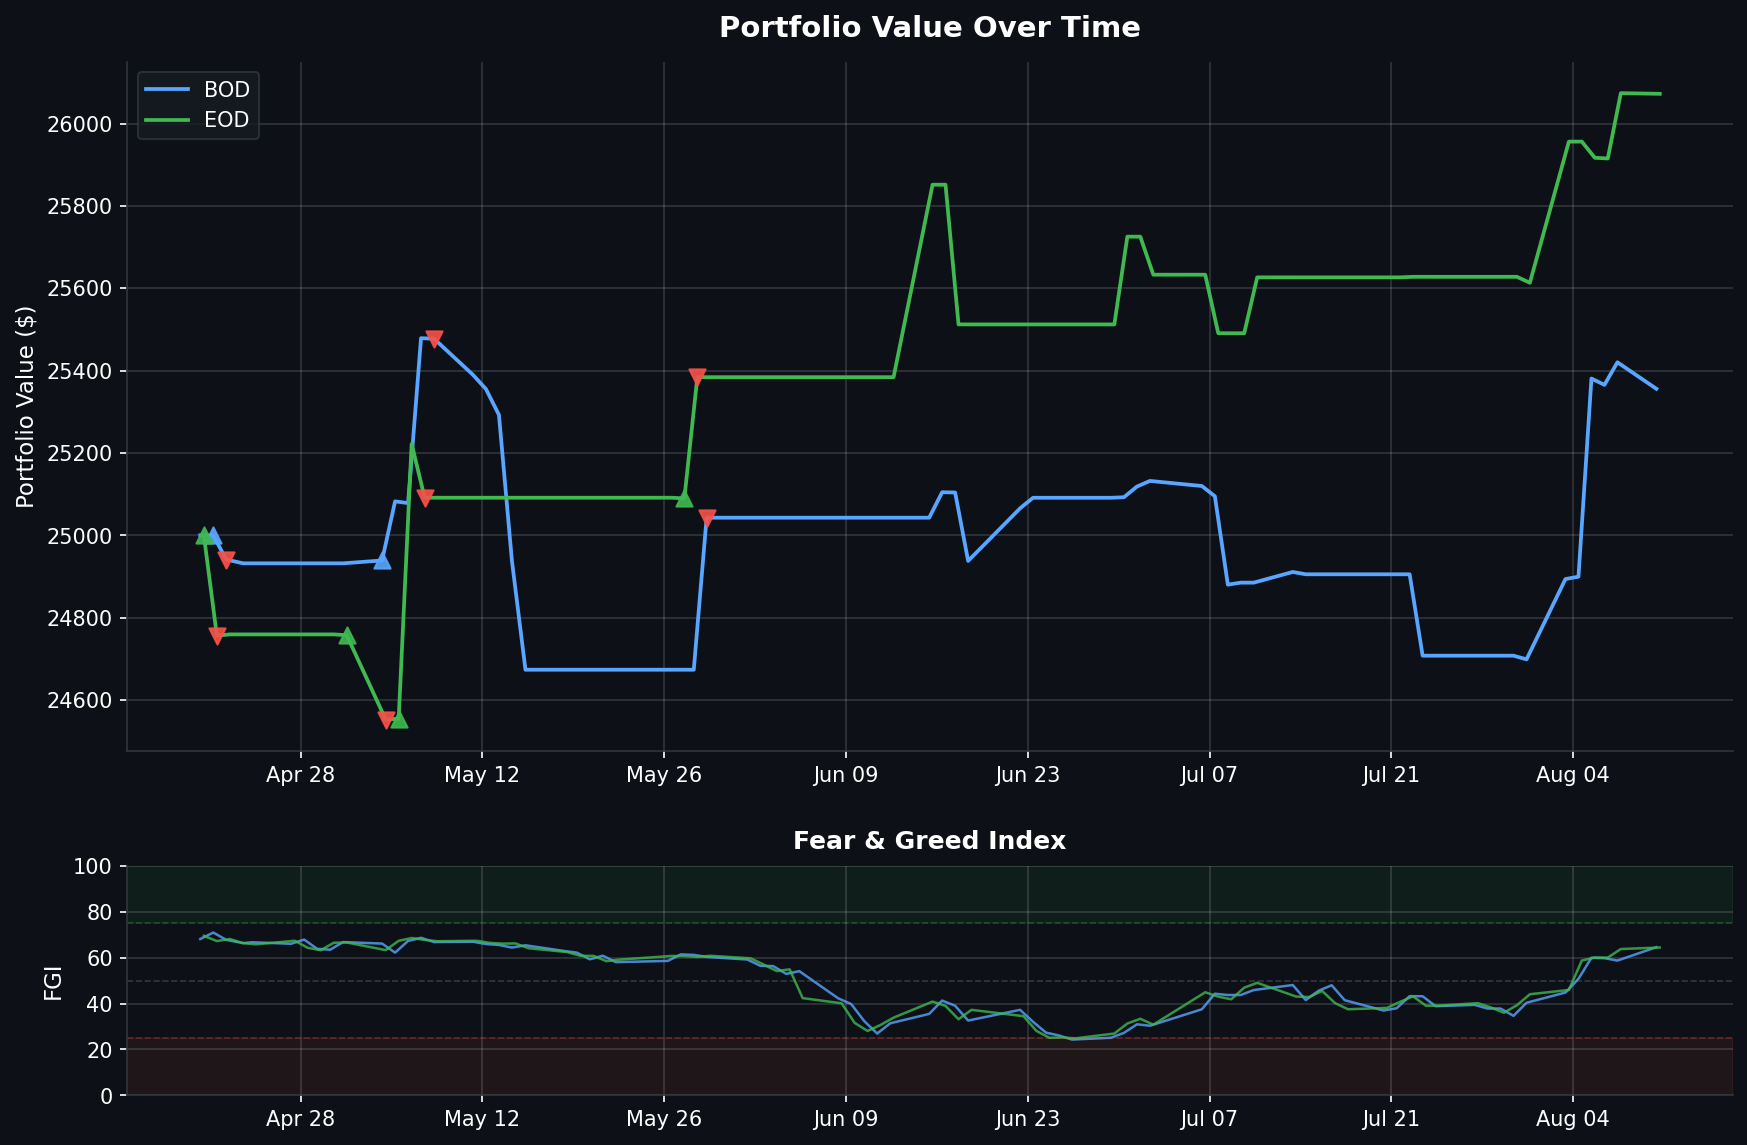
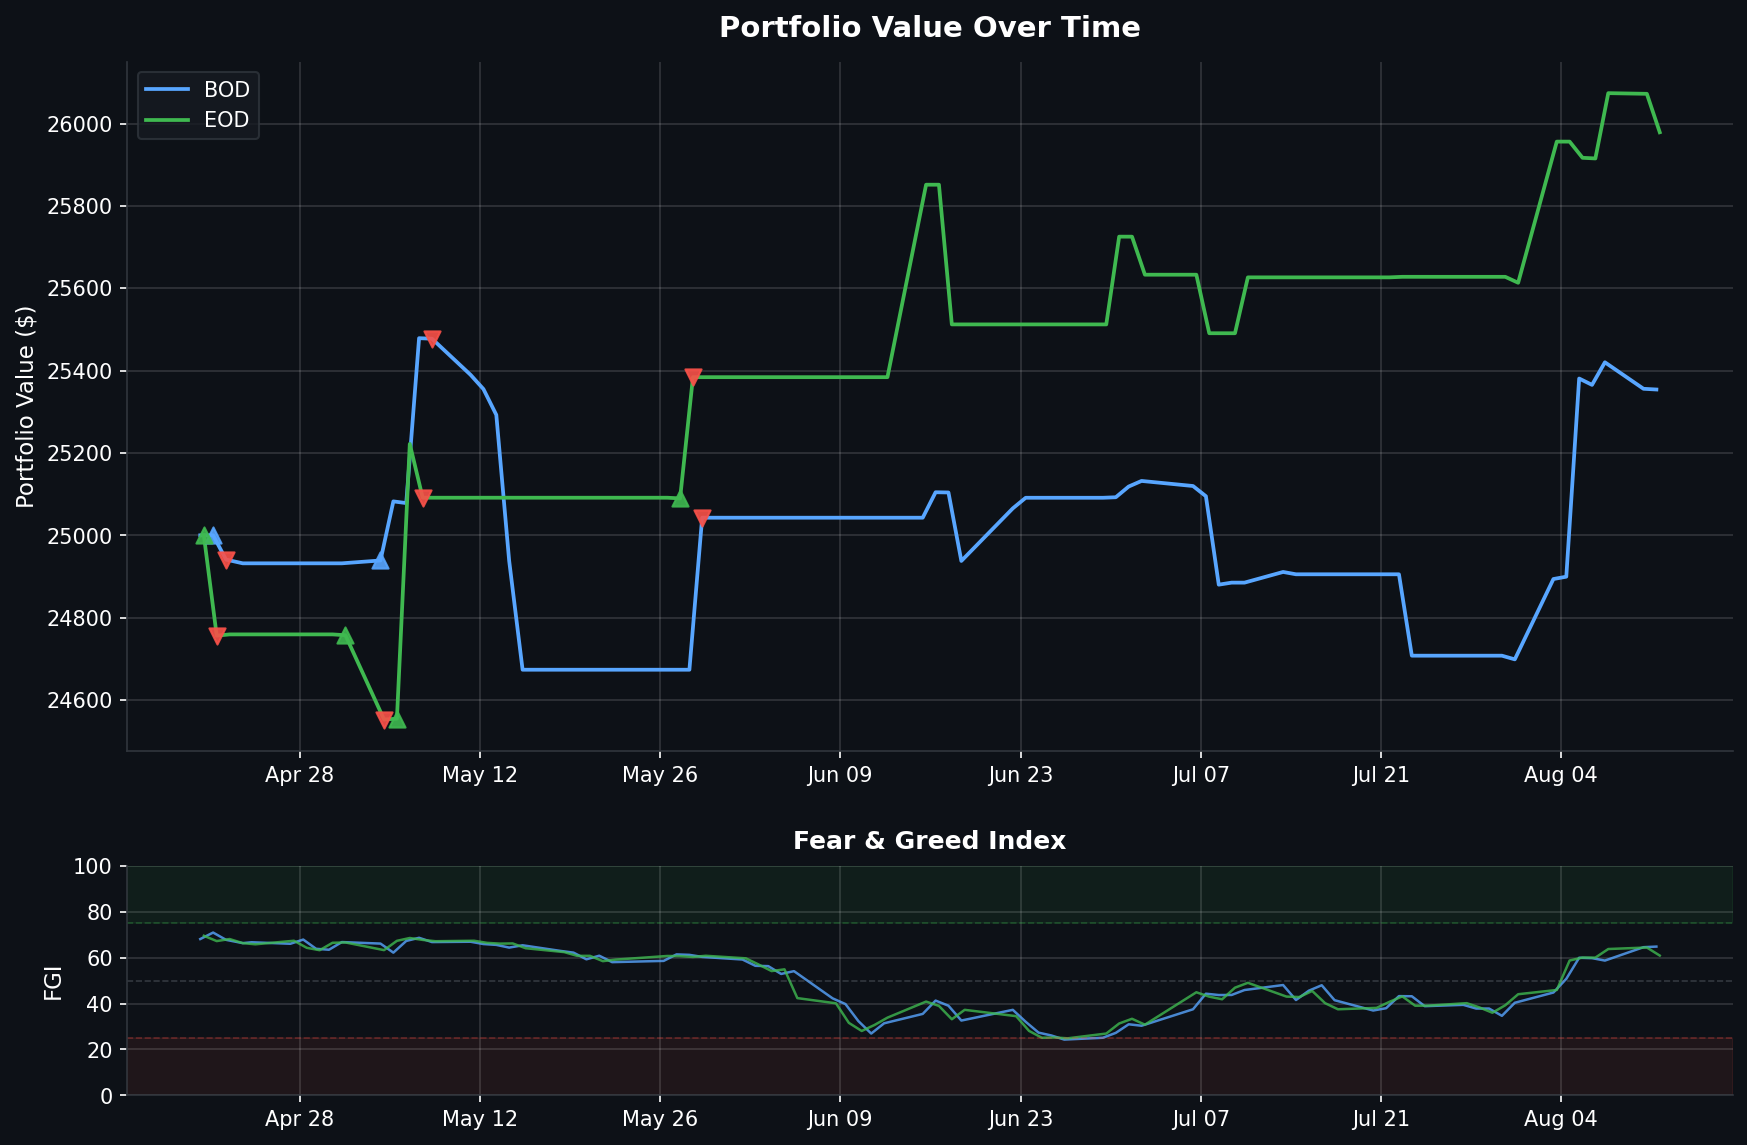
Daily data backup 2026-08-11

diff --git a/README.md b/README.md
@@ -1,6 +1,6 @@
 # Fear & Greed Index Trading Bot
 
-> Dashboard auto-updated daily at market close | Last update: **2026-08-10 13:30 PST**
+> Dashboard auto-updated daily at market close | Last update: **2026-08-11 13:30 PST**
 
 ![Portfolio Performance](assets/portfolio_chart.png)
 
@@ -10,14 +10,14 @@
 
 | Metric | Value |
 |--------|-------|
-| Portfolio Value | **$25,355.88** |
-| Buying Power | $71,745.31 |
-| Current FGI | 64.54 |
+| Portfolio Value | **$25,354.15** |
+| Buying Power | $101,416.60 |
+| Current FGI | 64.8 |
 | Position | FLAT |
 | Total P&L | **$+995** |
 | Win Rate | 50% (1W / 1L) |
 | Total Round Trips | 2 |
-| Last Signal | NO_ACTION @ 2026-08-10 09:35 |
+| Last Signal | NO_ACTION @ 2026-08-11 09:35 |
 
 <details>
 <summary>Trade History (2 trades)</summary>
@@ -34,11 +34,11 @@
 
 | Time | Action | Price | FGI | Momentum | Velocity | Volatility | Reason |
 |------|--------|-------|-----|----------|----------|------------|--------|
+| 08-11 09:35 | NO_ACTION | $773.69 | 64.8 | 2.12 | 1.68 | 0.55 | BUY did not fill after 3 attempts |
 | 08-10 09:35 | NO_ACTION | $772.59 | 64.54 | 3.53 | 1.53 | 0.55 | SELL incomplete - still holding -32 after 5 attempts |
 | 08-07 09:36 | NO_ACTION | $771.71 | 58.71 | -0.76 | 2.65 | 0.55 | SELL incomplete - still holding -30 after 5 attempts |
 | 08-06 09:35 | NO_ACTION | $769.78 | 59.77 | 2.94 | 4.99 | 0.55 | BUY did not fill after 3 attempts |
 | 08-05 09:35 | NO_ACTION | $775.85 | 59.94 | 8.10 | 6.53 | 0.55 | SELL incomplete - still holding 34 after 5 attempts |
-| 08-04 09:36 | NO_ACTION | $761.94 | 50.77 | 5.47 | 5.37 | 0.55 | BUY did not fill after 3 attempts |
 
 </details>
 
@@ -48,14 +48,14 @@
 
 | Metric | Value |
 |--------|-------|
-| Portfolio Value | **$26,072.24** |
-| Buying Power | $104,288.96 |
-| Current FGI | 64.4 |
+| Portfolio Value | **$25,978.86** |
+| Buying Power | $103,915.44 |
+| Current FGI | 60.89 |
 | Position | FLAT |
 | Total P&L | **$+302** |
 | Win Rate | 50% (2W / 2L) |
 | Total Round Trips | 4 |
-| Last Signal | NO_ACTION @ 2026-08-10 15:50 |
+| Last Signal | NO_ACTION @ 2026-08-11 15:52 |
 
 <details>
 <summary>Trade History (4 trades)</summary>
@@ -74,11 +74,11 @@
 
 | Time | Action | Price | FGI | Momentum | Velocity | Volatility | Reason |
 |------|--------|-------|-----|----------|----------|------------|--------|
+| 08-11 15:52 | NO_ACTION | $770.13 | 60.89 | -2.12 | 0.30 | 0.55 | SELL incomplete - still holding 33 after 5 attempts |
 | 08-10 15:50 | NO_ACTION | $772.90 | 64.4 | 1.69 | 1.46 | 0.55 | BUY did not fill after 3 attempts |
 | 08-07 15:52 | NO_ACTION | $772.84 | 63.74 | 2.48 | 1.67 | 0.55 | SELL incomplete - still holding 33 after 5 attempts |
 | 08-06 15:50 | NO_ACTION | $767.96 | 60.0 | 0.41 | 4.70 | 0.55 | BUY did not fill after 3 attempts |
 | 08-05 15:52 | NO_ACTION | $771.50 | 60.03 | 5.14 | 5.32 | 0.55 | SELL incomplete - still holding 33 after 5 attempts |
-| 08-04 15:50 | NO_ACTION | $772.65 | 58.74 | 9.17 | 6.49 | 0.55 | BUY did not fill after 3 attempts |
 
 </details>
 
